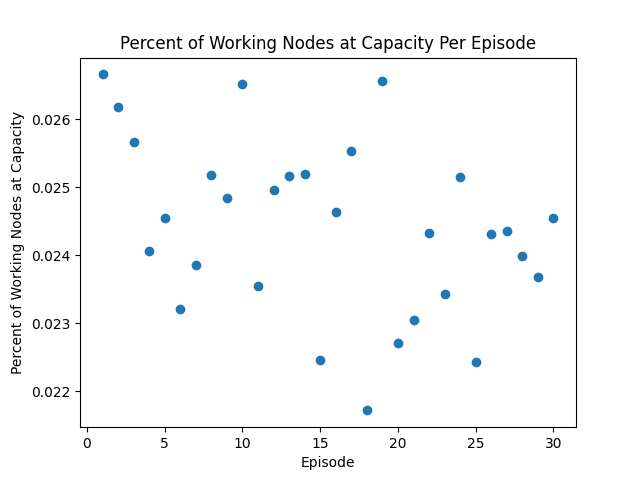
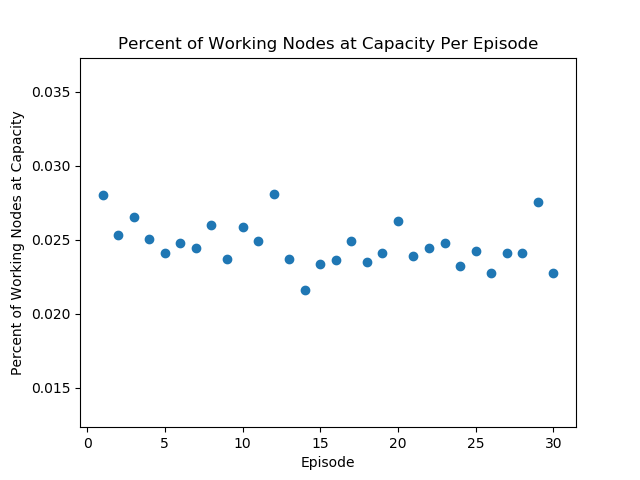
result of multi-q-learning

diff --git a/QLSimulationWithSP.py b/QLSimulationWithSP.py
@@ -1,6 +1,5 @@
 from our_agent import Multi_QAgent
 from our_env import *
-import matplotlib
 import matplotlib.pyplot as plt
 '''
 This program generates a network, teaches a Q-learning agent
@@ -40,7 +39,7 @@ for i in network_load:
     if i >= env.nnodes*env.max_queue:
         print("Error: Network load cannot exceed nodes times max queue size.")
 env.reset(max(network_load), False)
-agent = QAgent(env.dynetwork)
+agent = Multi_QAgent(env.dynetwork)
 
 '''Performance Measures for Q-Learning While Learning'''
 avg_deliv_learning = []
